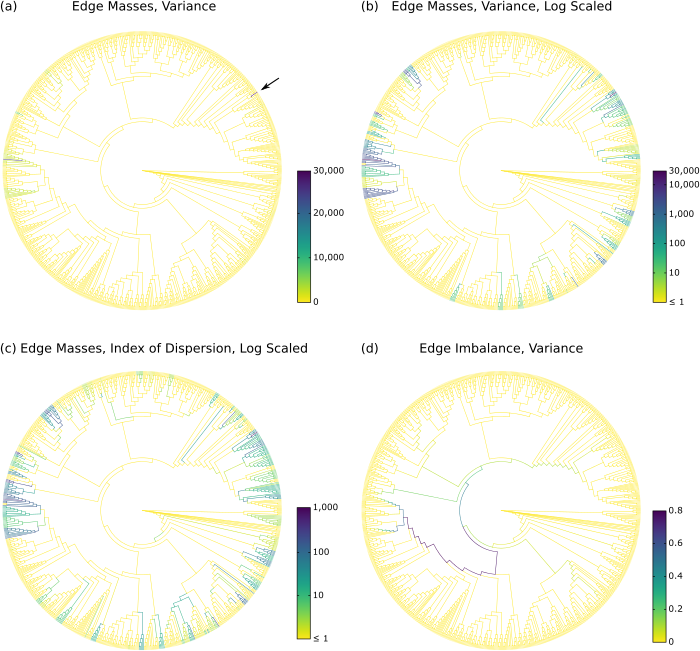
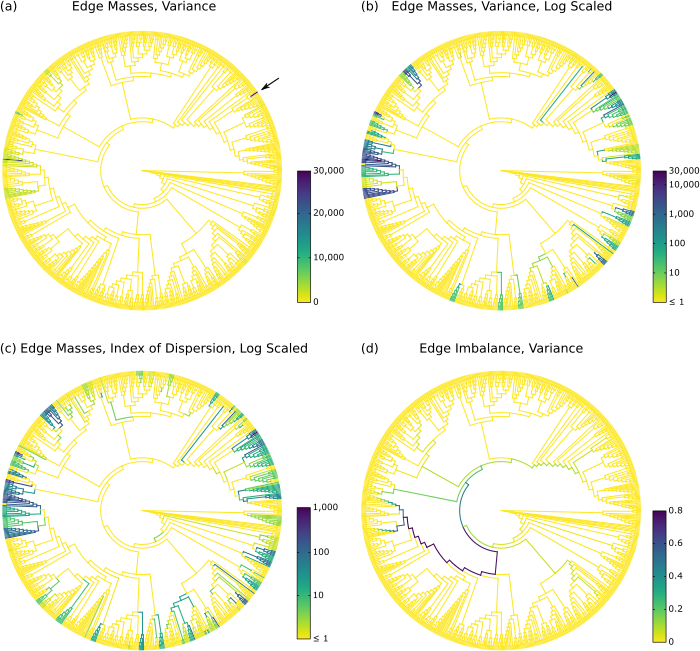
Refine dispersion.

diff --git a/src/commands/analyze/dispersion.cpp b/src/commands/analyze/dispersion.cpp
@@ -49,7 +49,7 @@
  * @brief Helper struct that stores one of the variants of the dispersion method and its properties.
  *
  * In the run function, we create a list of these, according to which options the user specified.
- * This list is then iteratored to produces the resulting coloured trees for each variant.
+ * This list is then iterated to produce the resulting coloured trees for each variant.
  */
 struct DispersionVariant
 {
@@ -95,9 +95,9 @@ void setup_dispersion( CLI::App& app )
 
     // Input.
     options->jplace_input.add_jplace_input_opt_to_app( sub );
+    options->jplace_input.add_mass_norm_opt_to_app( sub, true );
     options->jplace_input.add_point_mass_opt_to_app( sub );
     options->jplace_input.add_ignore_multiplicities_opt_to_app( sub );
-    options->jplace_input.add_mass_norm_opt_to_app( sub, true );
 
     // Edge value representation
     sub->add_set_ignore_case(
@@ -116,14 +116,14 @@ void setup_dispersion( CLI::App& app )
         "Method of dispersion. Either all (as far as they are applicable), or any of: "
         "coefficient of variation (cv, standard deviation divided by mean), "
         "coefficient of variation log-scaled (cv-log), "
+        "standard deviation (sd), standard deviation log-scaled (sd-log)"
         "variance (var), variance log-scaled (var-log), "
-        "variance to mean ratio (vmr, Index of Dispersion), "
+        "variance to mean ratio (vmr, also called Index of Dispersion), "
         "variance to mean ratio log-scaled (vmr-log).",
-        // TODO sd
         true
     )->group( "Settings" );
 
-    // Color. We allow max, but not min, as this is always 0.
+    // Color.
     options->color_map.add_color_list_opt_to_app( sub, "viridis" );
     options->color_map.add_mask_color_opt_to_app( sub );
 
@@ -150,7 +150,10 @@ std::vector<DispersionVariant> get_variants( DispersionOptions const& options )
 {
     std::vector<DispersionVariant> variants;
 
+    // Masses can use all methods.
     if(( options.edge_values == "both" ) || ( options.edge_values == "masses" )) {
+
+        // Linear
         if(( options.method == "all" ) || ( options.method == "sd" )) {
             variants.push_back({ "masses_sd", DispersionVariant::kMasses, DispersionVariant::kStandardDeviation, false });
         }
@@ -164,25 +167,25 @@ std::vector<DispersionVariant> get_variants( DispersionOptions const& options )
             variants.push_back({ "masses_vmr", DispersionVariant::kMasses, DispersionVariant::kIndexOfDispersion, false });
         }
 
-        // Log scaling is only reasonable for absolute masses.
-        // if( options.jplace_input.absolute_mass() ) {
-            if(( options.method == "all" ) || ( options.method == "sd-log" )) {
-                variants.push_back({ "masses_sd_log", DispersionVariant::kMasses, DispersionVariant::kStandardDeviation, true });
-            }
-            if(( options.method == "all" ) || ( options.method == "var-log" )) {
-                variants.push_back({ "masses_var_log", DispersionVariant::kMasses, DispersionVariant::kVariance, true });
-            }
-            if(( options.method == "all" ) || ( options.method == "cv-log" )) {
-                variants.push_back({ "masses_cv_log", DispersionVariant::kMasses, DispersionVariant::kCoeffcientOfVariation, true });
-            }
-            if(( options.method == "all" ) || ( options.method == "vmr-log" )) {
-                variants.push_back({ "masses_vmr_log", DispersionVariant::kMasses, DispersionVariant::kIndexOfDispersion, true });
-            }
-        // }
+        // Log scaled
+        if(( options.method == "all" ) || ( options.method == "sd-log" )) {
+            variants.push_back({ "masses_sd_log", DispersionVariant::kMasses, DispersionVariant::kStandardDeviation, true });
+        }
+        if(( options.method == "all" ) || ( options.method == "var-log" )) {
+            variants.push_back({ "masses_var_log", DispersionVariant::kMasses, DispersionVariant::kVariance, true });
+        }
+        if(( options.method == "all" ) || ( options.method == "cv-log" )) {
+            variants.push_back({ "masses_cv_log", DispersionVariant::kMasses, DispersionVariant::kCoeffcientOfVariation, true });
+        }
+        if(( options.method == "all" ) || ( options.method == "vmr-log" )) {
+            variants.push_back({ "masses_vmr_log", DispersionVariant::kMasses, DispersionVariant::kIndexOfDispersion, true });
+        }
     }
 
-    // For imbalances, only sd and variance makes sense.
+    // For imbalances, only sd and variance make sense.
     if(( options.edge_values == "both" ) || ( options.edge_values == "imbalances" )) {
+
+        // Linear
         if(( options.method == "all" ) || ( options.method == "sd" )) {
             variants.push_back({ "imbalances_sd", DispersionVariant::kImbalances, DispersionVariant::kStandardDeviation, false });
         }
@@ -190,15 +193,13 @@ std::vector<DispersionVariant> get_variants( DispersionOptions const& options )
             variants.push_back({ "imbalances_var", DispersionVariant::kImbalances, DispersionVariant::kVariance, false });
         }
 
-        // Log scaling is only reasonable for absolute masses.
-        // if( options.jplace_input.absolute_mass() ) {
-            if(( options.method == "all" ) || ( options.method == "sd-log" )) {
-                variants.push_back({ "imbalances_sd_log", DispersionVariant::kImbalances, DispersionVariant::kStandardDeviation, true });
-            }
-            if(( options.method == "all" ) || ( options.method == "var-log" )) {
-                variants.push_back({ "imbalances_var_log", DispersionVariant::kImbalances, DispersionVariant::kVariance, true });
-            }
-        // }
+        // Log scaled
+        if(( options.method == "all" ) || ( options.method == "sd-log" )) {
+            variants.push_back({ "imbalances_sd_log", DispersionVariant::kImbalances, DispersionVariant::kStandardDeviation, true });
+        }
+        if(( options.method == "all" ) || ( options.method == "var-log" )) {
+            variants.push_back({ "imbalances_var_log", DispersionVariant::kImbalances, DispersionVariant::kVariance, true });
+        }
     }
 
     return variants;
@@ -224,32 +225,31 @@ void make_color_tree(
 ) {
     using namespace genesis::utils;
 
+    // Just in case...
+    if( values.size() != tree.edge_count() ) {
+        throw std::runtime_error( "Internal error: Trees and matrices do not fit to each other." );
+    }
+
     // Get color norm and map.
-    auto color_map = options.color_map.color_map();
+    auto color_map  = options.color_map.color_map();
     std::unique_ptr<ColorNormalizationLinear> color_norm;
     if( log_scaling ) {
         color_norm = make_unique<ColorNormalizationLogarithmic>();
-        color_map.clip_under( true );
     } else {
         color_norm = make_unique<ColorNormalizationLinear>();
     }
 
     // Scale correctly. This checks for invalid values as well.
-    // color_norm->autoscale_max( values );
-    color_norm->autoscale( values );
+    color_norm->autoscale_max( values );
 
-    std::cout << full_prefix << ": norm " << color_norm->min_value() << " " << color_norm->max_value() << "\n";
-
-    // Some combinations do not work. Skip them.
-    // if( log_scaling && color_norm->max_value() < 1.0 ) {
-    //     std::cout << "Skipping " << full_prefix << ", ";
-    //     std::cout << "because this combination does not work with values < 1.0\n";
-    //     return;
-    // }
-
-    // Just in case...
-    if( values.size() != tree.edge_count() ) {
-        throw std::runtime_error( "Internal error: Trees and matrices do not fit to each other." );
+    // Set log scale minimum. Log scaling cannot use 0. Show some orders of magnitude instead.
+    if( log_scaling ) {
+        if( color_norm->max_value() > 1.0 ) {
+            color_norm->min_value( 1.0 );
+        } else {
+            color_norm->min_value( color_norm->max_value() / 10e4 );
+        }
+        color_map.clip_under( true );
     }
 
     // Now, make a color vector and write to files.
